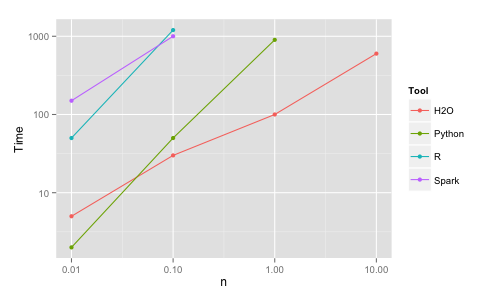
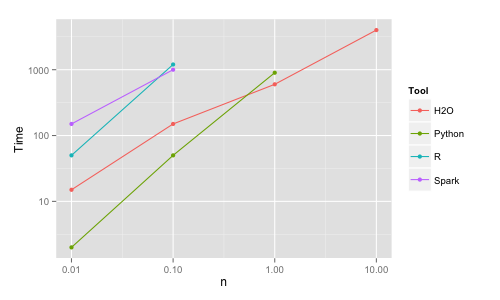
h2o RF bigdata

diff --git a/README.md b/README.md
@@ -75,11 +75,11 @@ R       | 10K  |      50       |   10     | 68.2
 Python  | 10K  |      2        |   2      | 68.4
         | 100K |     50        |   5      | 71.4
         | 1M   |     900       |   20     | 73.2
-        | 10M  |  pre-crash    |          |
-H2O     | 10K  |      5        |   2      | 68.7
-        | 100K |      30       |   10     | 70.2
-        | 1M   |      100      |   25     | 71.8
-        | 10M  |      600      |   30     | 73.2
+        | 10M  |     crash     |          |
+H2O     | 10K  |      15       |   2      | 69.8
+        | 100K |      150      |   4      | 72.5
+        | 1M   |      600      |    5     | 75.5
+        | 10M  |     4000      |   25     | 77.8
 Spark   | 10K  |      150      |   10     | 65.5
         | 100K |      1000     |   30     | 67.9
         | 1M   |     crash     |          |
@@ -95,7 +95,9 @@ the trees in parallel using all the cores and combine them at the end.
 
 The [Python](2-rf/2.py) implementation is fast, more memory efficient and uses all the cores.
 Variables needed to be one-hot encoded (which is more involved than for R) 
-and for *n* = 10M doing this exhausted all the memory.
+and for *n* = 10M doing this exhausted all the memory. However, even if using a larger machine
+with 250GB of memory (and 140GB free for RF after transforming all the data) the Python implementation
+runs out of memory and crashes.
 
 To make it clear, this does not mean Python is better than R for machine learning. This has nothing to
 do with R/Python, it has to do with the particular C/Fortran implementation of the tree training algorithm 
